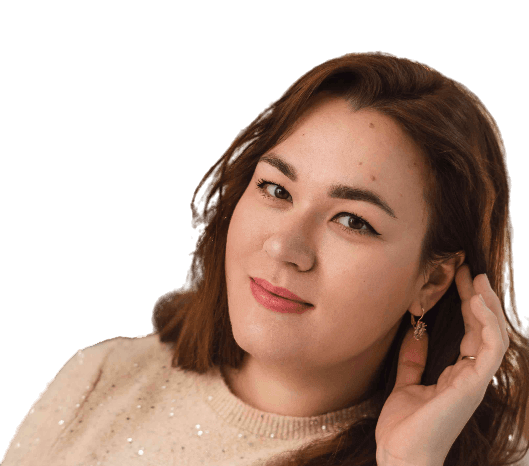
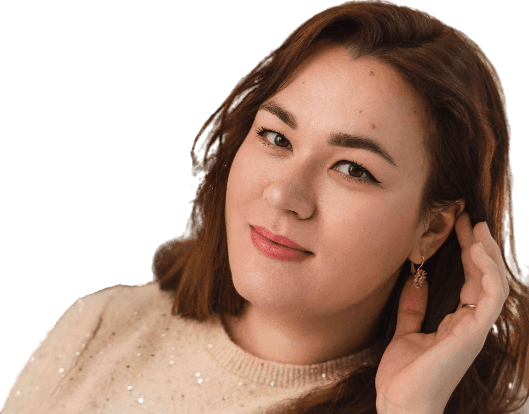
step4
- added about section
- added reviews section

diff --git a/index.html b/index.html
@@ -8,7 +8,7 @@
     <title>Ally's English Club</title>
 </head>
 <body>
-    <!-- header -->
+    <!-- Header -->
     <header class="header">
         <div class="header__left">
             <h1 class="header__title">Ally's English Club</h1>
@@ -18,15 +18,19 @@
             <a href="#nav" class="btn">узнать больше</a>
         </div>
         <div class="header__right">
-            <img src="./img/photo.png" alt="" class="header__photo">
+            <img src="./img/ph-left.png" alt="" class="header__photo img">
         </div>
     </header>
-    <nav class="nav" id="nav">
-        <li><a class="nav__link" href="#!">Мои группы</a></li>
-        <li><a class="nav__link" href="#!">обо мне</a></li>
-        <li><a class="nav__link" href="#!">отзывы</a></li>
-    </nav>
     <main class="main">
+
+        <!-- Nav -->
+        <nav class="nav" id="nav">
+            <li><a class="nav__link" href="#!">Мои группы</a></li>
+            <li><a class="nav__link" href="#!">обо мне</a></li>
+            <li><a class="nav__link" href="#!">отзывы</a></li>
+        </nav>
+
+        <!-- Groups -->
         <section class="section">
             <div class="container">
                 <h2 class="section__title" id="groups">мои группы</h2>
@@ -75,14 +79,86 @@
                 </div> <!-- ./groups -->
             </div> <!-- container -->
         </section>
+
+        <!-- About -->
+        <section class="section section--blue">
+            <h2 class="section__title">Немного обо мне</h2>
+            <div class="container">
+                <div class="about">
+                    <div class="about__left">
+                        <img class="about__photo img" src="./img/phal.png" alt="Альфия Карабанова, преподаватель английского языка фото">
+                    </div>
+                    <div class="about__right">
+                        <h3 class="section__subtitle">Кто я</h3>
+                        <p class="about__text">
+                            Уже 26 лет моя жизнь связана с английским, из них 11 лет преподаю его
+                        </p>
+                        <p class="about__text">Я изучаю язык с самого детства, училась в школе с углубленным изучением английского. Язык был в расписании 5 дней в неделю и вели его невероятные учителя. Я благодарна каждой из них за любовь к изучению языков, которой они зарядили меня на всю жизнь!</p>
+                        <p class="about__text">Для продолжения обучения я выбрала педагогический институт, на третьем курсе поехала на стажировку в Индонезию, где преподавала английский в колледже. Также там готовила учеников к выступлению на выставке.</p>
+                        <p class="about__text"></p>
+                    </div>
+                </div> <!-- /.about -->
+
+
+                <div class="gallery">
+                    <div class="gallery__item">
+                        <a href="#!" class="gallery__link">
+                            <img class="gallery__picture" src="./img/gallery/pic1.jpg" alt="">
+                        </a>
+                    </div> <!-- /.gallery__item -->
+                    <div class="gallery__item">
+                        <a href="#!" class="gallery__link">
+                            <img class="gallery__picture" src="./img/gallery/pic2.jpg" alt="">
+                        </a>
+                    </div> <!-- /.gallery__item -->
+                    <div class="gallery__item">
+                        <a href="./img/gallery/pic3.jpg" class="gallery__link">
+                            <img class="gallery__picture" src="./img/gallery/pic3.jpg" alt="">
+                        </a>
+                    </div> <!-- /.gallery__item -->
+                    <div class="gallery__item">
+                        <a href="#!" class="gallery__link">
+                            <img class="gallery__picture" src="./img/gallery/pic4.jpg" alt="">
+                        </a>
+                    </div> <!-- /.gallery__item -->
+                    <div class="gallery__item">
+                        <a href="#!" class="gallery__link">
+                            <img class="gallery__picture" src="./img/gallery/pic5.jpg" alt="">
+                        </a>
+                    </div> <!-- /.gallery__item -->
+                    <div class="gallery__item">
+                        <a href="#!" class="gallery__link">
+                            <img class="gallery__picture" src="./img/gallery/pic6.jpg" alt="">
+                        </a>
+                    </div> <!-- /.gallery__item -->
+                </div> <!-- /.gallery -->
+            </div> <!-- /.container -->
+        </section>
+
         <section class="section">
-            <h2 class="section__title">Отзывы моих учеников</h2>
-            <div class="reviews">
-                <div class="swiper">
-
-                </div>
-            </div>
-
+            <div class="container">
+                <h2 class="section__title">Отзывы моих учеников</h2>
+                <div class="reviews">
+                    <div class="reviews__author">
+                        <img src="https://doodleipsum.com/500x500/avatar?i=0512365fbc5f44dc6d964e17e6900bb4" alt="" class="reviews__photo img">
+                        <div class="reviews__name">Gayorgy</div>
+                    </div>
+                    <div class="reviews__text">
+                        <p>
+                            Мне очень нравится заниматься с Альфией,
+                            т.к:
+                        </p>
+                        <ol class="reviews__text-list">
+                            <li>Есть результат, и это очевидно, а для меня это все-таки главное в занятиях.</li>
+                            <li>Мои интересы подностью учитываются, а это очень важно для достижения результата</li>
+                            <li>Преподаватель всегда подготовлен, и урок идет четко, что для меня очень важно, тк у меня не много свободного времени, и я люблю тратить его эффективно</li>
+                            <li>При возникновении внештатных ситуаций с Альфией всегда можно найти общий язык и договориться о том, как преодолеть их</li>
+                            <li>Английский - это прежде всего общение, общение с Альфией получается веселым и непренужденным, нет ощущения менторства и вообще какого-то напряжения</li>
+                        </ol>
+                        <p>Одним словом, я считаю что Альфия прекрасный преподаватель`и желаю Але победы. Она этого достойна :)</p>
+                    </div>
+                </div> <!-- /.reviews -->
+            </div> <!-- ./container -->
         </section>
     </main>
 

diff --git a/css/style.css b/css/style.css
@@ -6,6 +6,7 @@
     --black: #171717;
     --purple: #9599E2;
     --light-blue: #8BC6EC;
+    --light-gray:  #aeb6bf;
 
     --text-color: var(--black);
     --header-text:var(--white);
@@ -18,7 +19,7 @@
 body {
     margin: 0 auto;
     font-family: 'Montserrat', sans-serif;
-    font-size: 15px;
+    font-size: 16px;
 }
 
 .btn {
@@ -56,6 +57,13 @@ body {
     margin: 0 auto;
 }
 
+/* Helpers */
+img {
+    display: block;
+    width: 100%;
+    height: auto;
+}
+
 
 
 
@@ -65,7 +73,7 @@ body {
     height: 100vh;
     display: flex;
     flex-wrap: wrap;
-    padding: 180px 40px 40px;
+    padding: 180px 0 0 40px;
 
     background-color: #8BC6EC;
     background-image: linear-gradient(135deg, #8BC6EC 0%, #9599E2 35%, #596140 100%);
@@ -74,14 +82,22 @@ body {
     text-align: center;
     color: var(--white);
 
+
 }
 
 .header__left {
     width: 50%;
+    padding-bottom: 40px;
     display: flex;
     flex-direction: column;
     justify-content: space-between;
+}
+
+.header__right {
+    width: 50%;
     position: relative;
+
+
 }
 
 
@@ -116,12 +132,10 @@ body {
 
 
 .header__photo {
-    display: block;
-    height: auto;
-
     position: absolute;
     bottom: 0;
     right: 0;
+    z-index: 2;
 }
 
 /* Nav */
@@ -155,6 +169,11 @@ body {
 /* section */
 .section {
     padding: 70px 0;
+}
+
+.section--blue {
+    background: rgb(255,255,255);
+    background: linear-gradient(0deg, rgba(255,255,255,1) 0%, rgba(150,203,238,1) 25%, rgba(139,198,236,1) 75%, rgba(255,255,255,1) 100%);
 }
 
 .section__title {
@@ -224,6 +243,94 @@ body {
     margin-bottom: 30px;
 }
 
+
+
+/* About */
+.about {
+    margin-bottom: 30px;
+    display: flex;
+    flex-wrap: wrap;
+    justify-content: center;
+
+    border-bottom: 1px solid var(--light-gray);
+}
+.about__left {
+    max-width: 50%;
+}
+.about__photo {
+    width: 100%;
+    height: auto;
+}
+.about__right {
+    width: 50%;
+}
+.section__subtitle {
+    margin-bottom: 10px;
+    font-size: 24px;
+    font-weight: 500;
+    color: var(--accent);
+}
+.about__text {
+    line-height: 1.5;
+    margin-bottom: 15px;
+}
+
+.about__text::first-letter{
+    margin-left: 25px;
+}
+
+/* Gallery*/
+.gallery {
+    display: flex;
+    flex-wrap: wrap;
+    justify-content: space-between;
+    column-gap: 20px;
+    row-gap: 20px;
+}
+
+.gallery__item {
+    width: 180px;
+    height: 140px;
+}
+
+.gallery__link {
+    display: block;
+    padding: 5px;
+    background-color: var(--white);
+    border: 1px solid var(--black);
+    border-radius: 3px;
+}
+
+.reviews {
+    display: flex;
+    gap: 50px;
+    justify-content: space-between;
+}
+.reviews__author {
+    max-width: 300px;
+    text-align: center;
+}
+
+.reviews__name {
+    font-size: 24px;
+    font-weight: 500;
+}
+
+.reviews__text {
+    padding: 25px;
+    line-height: 1.8;
+    font-style: italic;
+
+    border: 1px solid var(--light-gray);
+    border-radius: 0 30px 30px 30px;
+    box-shadow: 0px 5px 10px 2px rgba(34, 60, 80, .5);
+
+}
+
+.reviews__text-list {
+    padding-left: 30px;
+
+}
 
 
 
